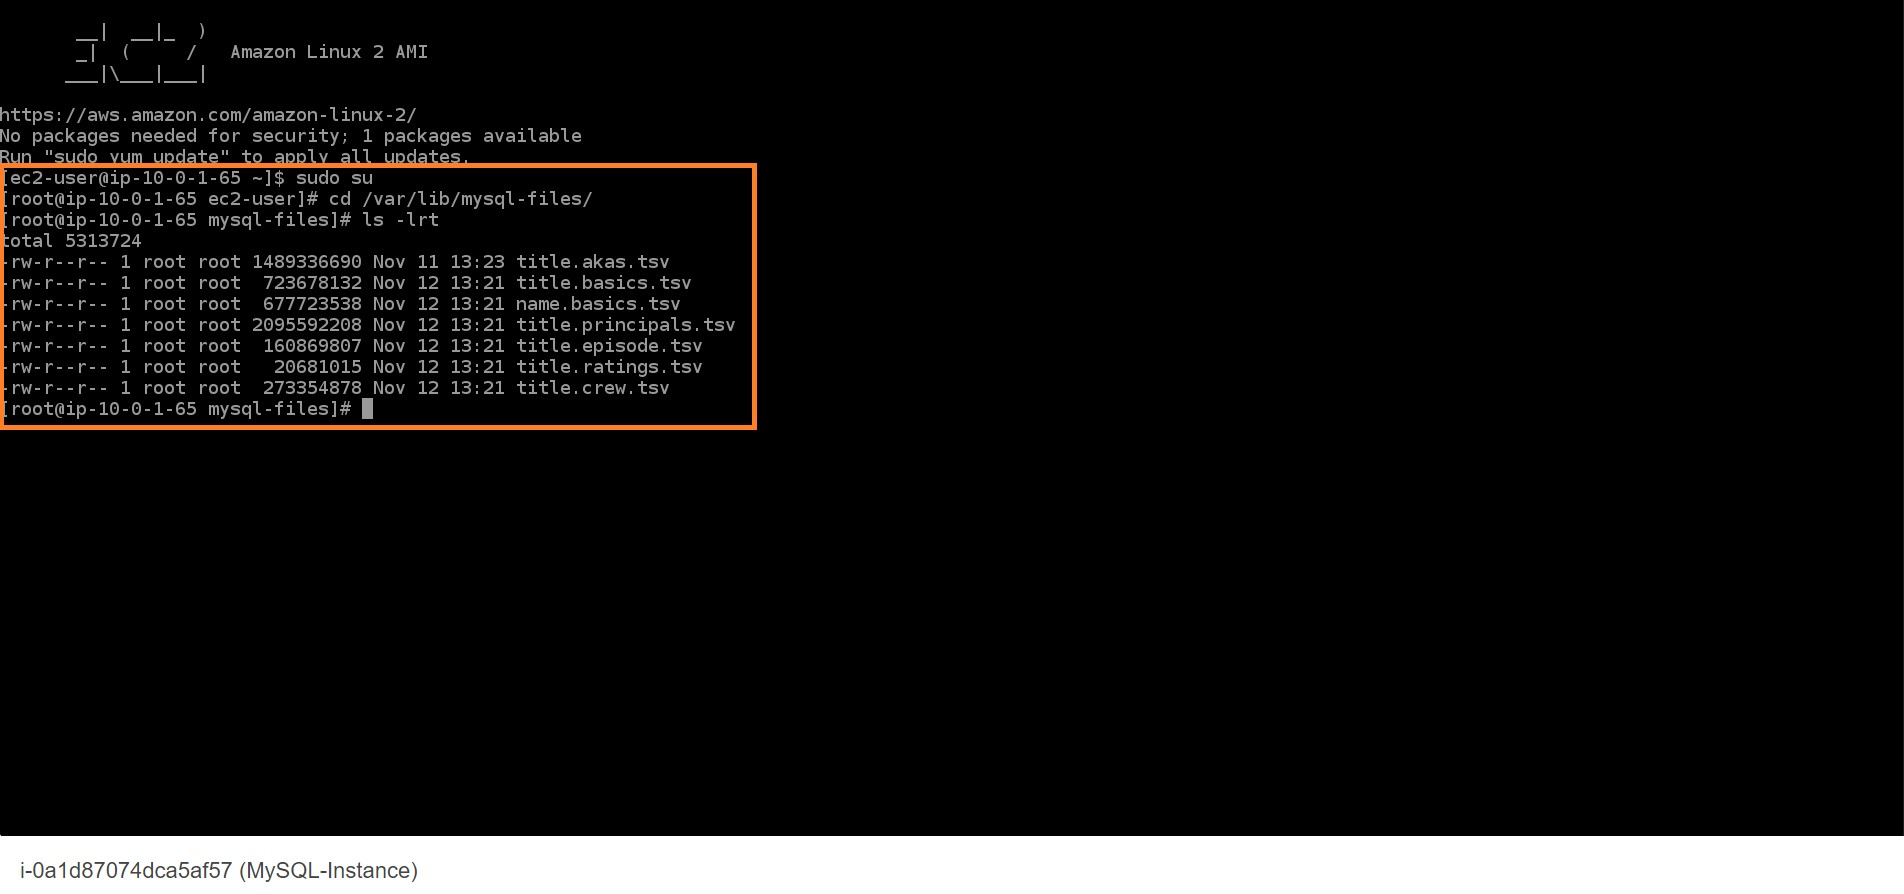
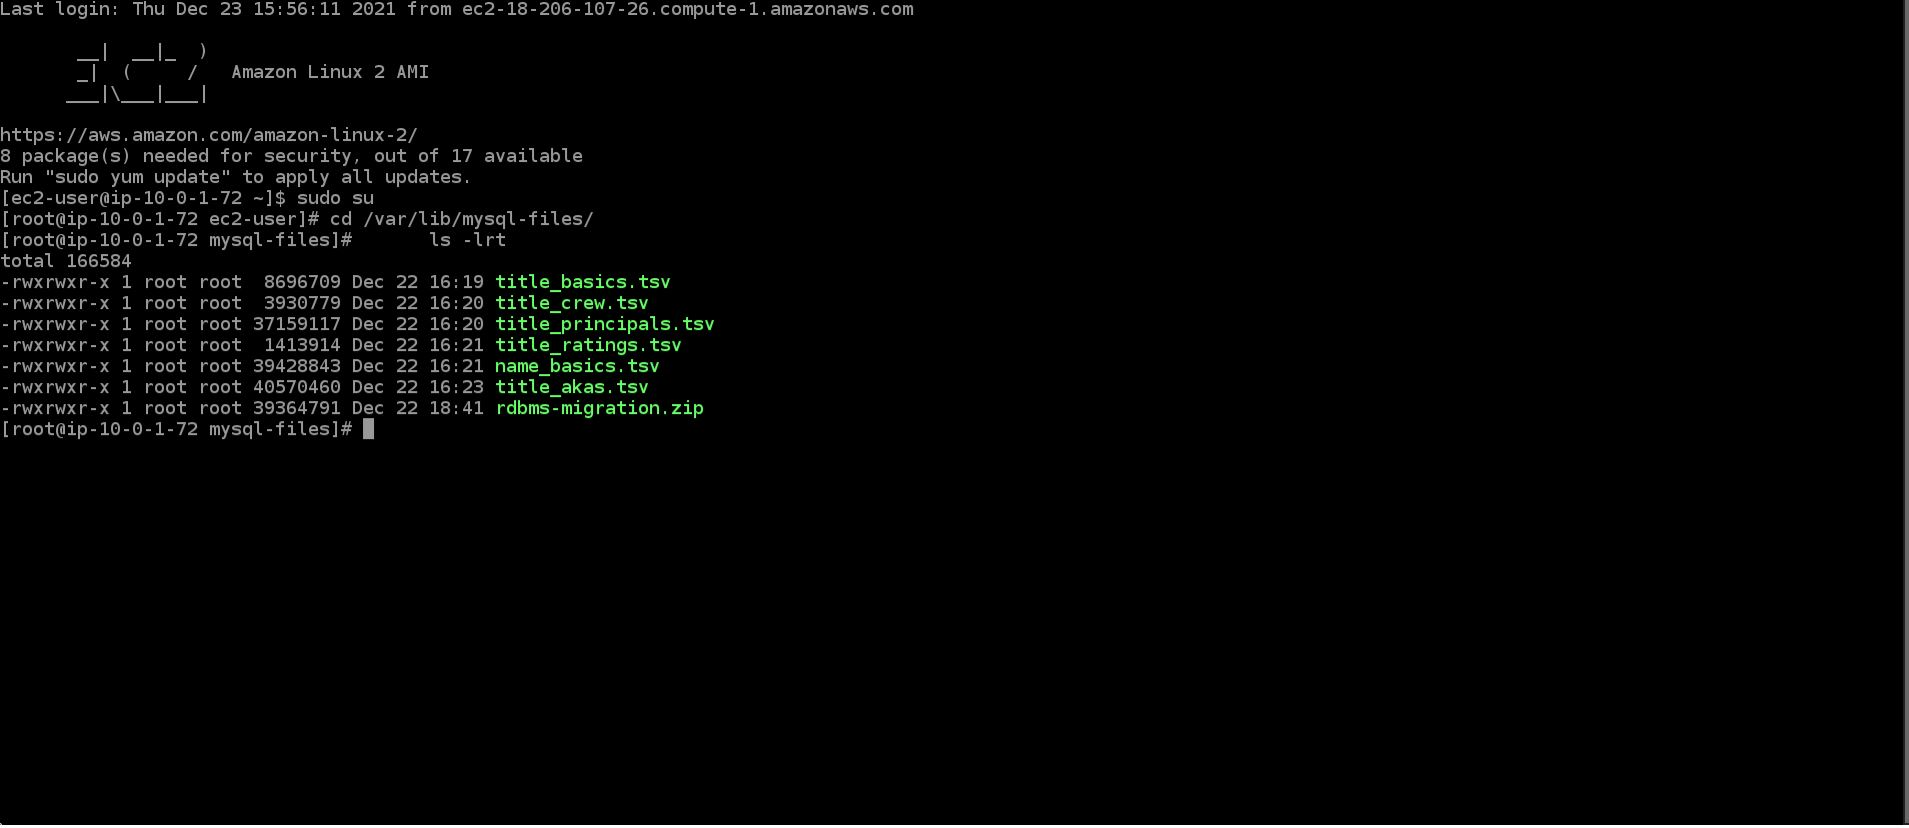
Update

Changed region(s): [[0.0, 0.0, 0.4958, 0.5435], [0.0, 0.0, 1.0, 0.9964]]

diff --git a/content/hands-on-labs/rdbms-migration/migration-chapter03.en.md b/content/hands-on-labs/rdbms-migration/migration-chapter03.en.md
@@ -1,13 +1,15 @@
 +++
-title = "Load Source Data"
-menuTitle = "Load Source Data"
+title = "Explore Source Data"
+menuTitle = "Explore Source Data"
 date = 2021-04-25T07:33:04-05:00
 weight = 30
-hidden = true
 +++
-Using CloudFormation template, you have launched EC2 Amazon Linux 2 instance with MySQL installed and running. The template has also created a new user based on the CloudFormation input parameter.
-The script has copied the public IMDB dataset into the file directory at deployed EC2 server.
-Learn more about [IMDB dataset](https://www.imdb.com/interfaces/).
+IMDb [(Internet Movie Database)](https://www.imdb.com/interfaces/) is one of the most recognized names for its comprehensive online database collection of movies, films, TV series and so on.
+The exercise is going to use subset of IMDb dataset. This workshop will utilize 6 IMDb dataset that are related to US based movies since year 2000. Each dataset is already loaded into 6 tables on MySQL imdb database deployed using previous CloudFormation template.
+The dataset has around 106K+ movies and crew information.
+
+Using CloudFormation template, you have launched EC2 Amazon Linux 2 instance with MySQL installed and running. The template has also created new imdb database, 6 tables (one for each IMDb dataset), loaded dataset into the tables and a new remote MySQL user based on the CloudFormation input parameter.
+The copy of the IMBb dataset (TSV files) is also copied into the local file directory at EC2 server. To explore dataset follow below instructions to login to EC2 server.
 
  1. Go to [EC2 console](https://console.aws.amazon.com/ec2/v2/home?region=us-east-1#Instances:instanceState=running)
  2. Select the MySQL-Instance and click Connect
@@ -24,7 +26,7 @@ Learn more about [IMDB dataset](https://www.imdb.com/interfaces/).
       cd /var/lib/mysql-files/
       ls -lrt
     ```
- 6. You can see all the 7 files copied from the IMDB dataset to the local EC2 directory
+ 6. You can see all the 6 files copied from the IMDB dataset to the local EC2 directory
     ![Final Deployment Architecture](/images/migration12.jpg)
  8. Feel free to explore the files.
  9. Go to AWS CloudFormation [Stacks](https://console.aws.amazon.com/cloudformation/home?region=us-east-1#/stacks?filteringStatus=active&filteringText=&viewNested=true&hideStacks=false) and click on the stack you created earlier. Go to the Parameters tab and copy the user name and password mentioned next to DbMasterUsername & DbMasterPassword
@@ -34,33 +36,22 @@ Learn more about [IMDB dataset](https://www.imdb.com/interfaces/).
   mysql -u DbMasterUsername -pDbMasterPassword
   ```
    ![Final Deployment Architecture](/images/migration14.jpg)
-11. Congratulations! you are now connected to a self-managed MySQL database on EC2. We will create a new imdb database and load datasets that are available as flat file on EC2 directory
+11. Congratulations! you are now connected to a self-managed MySQL source database on EC2. In next steps we will explore database and tables hosting IMDb datasets
   ```bash
-  CREATE DATABASE imdb;
-  USE imdb;
+  use imdbUSE imdb;
   ```
    ![Final Deployment Architecture](/images/migration15.jpg)
-12. Type below command to create source tables inside imdb Database
-   ```bash
-   CREATE TABLE title_akas (titleId VARCHAR(200), ordering VARCHAR(200),title VARCHAR(1000), region VARCHAR(1000), language VARCHAR(1000), types VARCHAR(1000),attributes VARCHAR(1000),isOriginalTitle VARCHAR(5),primary key (titleId, ordering));
-   CREATE TABLE imdb.title_basics (tconst  VARCHAR(200), titleType  VARCHAR(1000),primaryTitle  VARCHAR(1000), originalTitle  VARCHAR(1000), isAdult  VARCHAR(1000), startYear  VARCHAR(1000),endYear  VARCHAR(1000),runtimeMinutes  VARCHAR(1000),genres  VARCHAR(1000),primary key (tconst));
-   CREATE TABLE title_crew (tconst  VARCHAR(200), directors  VARCHAR(1000),writers  VARCHAR(1000),primary key (tconst));
-   CREATE TABLE title_episode (tconst  VARCHAR(200), parentTconst  VARCHAR(1000),seasonNumber  integer, episodeNumber  integer,primary key (tconst));
-   CREATE TABLE title_principals (tconst  VARCHAR(200), ordering  VARCHAR(200),nconst  VARCHAR(200), category  VARCHAR(1000), job  VARCHAR(1000), characters  VARCHAR(1000),primary key (tconst,ordering,nconst));
-   CREATE TABLE title_ratings (tconst  VARCHAR(200), averageRating float,numVotes  integer,primary key (tconst));
-   CREATE TABLE name_basics (nconst  VARCHAR(200), primaryName  VARCHAR(1000),birthYear  VARCHAR(1000), deathYear  VARCHAR(1000), primaryProfession  VARCHAR(1000), knownForTitles VARCHAR(1000),primary key (nconst));
-   ```
-13. Show all the tables created;
+12. Show all the tables created;
    ```bash
    show tables;
    ```
    ![Final Deployment Architecture](/images/migration16.jpg)
-14. Type below command to load data from flatfiles to MySQL imdb database. The process will take 20-30 minutes to load entire dataset.
-  ```bash
-   LOAD DATA INFILE '/var/lib/mysql-files/title_ratings.tsv' IGNORE INTO TABLE imdb.title_ratings FIELDS TERMINATED BY '\t';
-   LOAD DATA INFILE '/var/lib/mysql-files/title_basics.tsv'  IGNORE INTO TABLE imdb.title_basics FIELDS TERMINATED BY '\t';
-   LOAD DATA INFILE '/var/lib/mysql-files/title_crew.tsv' IGNORE INTO TABLE imdb.title_crew FIELDS TERMINATED BY '\t';
-   LOAD DATA INFILE '/var/lib/mysql-files/title_principals.tsv' IGNORE INTO TABLE imdb.title_principals FIELDS TERMINATED BY '\t';
-   LOAD DATA INFILE '/var/lib/mysql-files/name_basics.tsv' IGNORE INTO TABLE imdb.name_basics FIELDS TERMINATED BY '\t';
-   LOAD DATA INFILE '/var/lib/mysql-files/title_akas.tsv' IGNORE INTO  TABLE imdb.title_akas FIELDS TERMINATED BY '\t';
-   ```
+
+For illustration purpose, below logical diagram represents relationaship between various source tables hosting IMDb dataset.
+  1.  title_basics table has all movies published in US after year 2000. tconst is an alphanumeric key uniquely assigned to each movies.
+  2.  title_akas holds information related to various region and language that movie was originally published. This has 1:many relationshify with title_basics table.
+  3.  title_ratings holds information related to average movies rating and vote count. We can assume this has dynamic information that can change over time post movies are published.
+  4.  title_principals has information related to various crew member worked inside the movie. The table has 1:many relationship with title_basics table.
+  5.  title_crew has information related to writer and director for movies. The table is 1:1 related with title_basics table.
+  6.  name_basics has information related to all crew members and thier primary professions. Every actor has unique nconst value assigned.
+![Final Deployment Architecture](/images/migration31.jpg)

diff --git a/content/hands-on-labs/rdbms-migration/migration-chapter05.en.md b/content/hands-on-labs/rdbms-migration/migration-chapter05.en.md
@@ -119,58 +119,109 @@ To Migrate Denormalized View
           ]
       }
   ```
-  To Migrate Ratings table (Ensure to Change Target table preparation mode = Do nothing to preserve data from first historical load)
-    ```json
-
-    {
-      "rules": [
-          {
-              "rule-type": "selection",
-              "rule-id": "1",
-              "rule-name": "1",
-              "object-locator": {
-                  "schema-name": "imdb",
-                  "table-name": "title_ratings",
-                  "table-type": "table"
-              },
-              "rule-action": "include"
-          },
-          {
-              "rule-type": "object-mapping",
-              "rule-id": "2",
-              "rule-name": "2",
-              "rule-action": "map-record-to-record",
-              "object-locator": {
-                  "schema-name": "imdb",
-                  "table-name": "title_ratings",
-                  "table-type": "table"
-              },
-              "target-table-name": "dynamo_migration",
-              "mapping-parameters": {
-                  "partition-key-name": "tconst",
-                  "sort-key-name": "tconst_orderning",
-                  "exclude-columns": [],
-                  "attribute-mappings": [
-                      {
-                          "target-attribute-name": "tconst",
-                          "attribute-type": "scalar",
-                          "attribute-sub-type": "string",
-                          "value": "${tconst}"
-                      },
-                      {
-                          "target-attribute-name": "tconst_orderning",
-                          "attribute-type": "scalar",
-                          "attribute-sub-type": "string",
-                          "value": "RATINGS"
-                      }
-                  ]
-              }
-          }
-        ]
-      }
-    ```
 ![Final Deployment Architecture](/images/migration25.jpg)
 ![Final Deployment Architecture](/images/migration26.jpg)
 The replication job for historical migration will start moving data from MySQL dynamo_migration denormalized view to DynamoDB table in a few minutes. The job will migration 2.5 million records and normally takes 4-5 Hrs.
 You can track the status of data loading under the Table statistics of the migration task. Once loading is in progress, feel free to move to the next section of the exercise.
 ![Final Deployment Architecture](/images/migration27.jpg)
+
+To Migrate Ratings table (Ensure to Change Target table preparation mode = Do nothing to preserve data from first historical load)
+  ```json
+
+  {
+    "rules": [
+        {
+            "rule-type": "selection",
+            "rule-id": "1",
+            "rule-name": "1",
+            "object-locator": {
+                "schema-name": "imdb",
+                "table-name": "title_ratings",
+                "table-type": "table"
+            },
+            "rule-action": "include"
+        },
+        {
+            "rule-type": "object-mapping",
+            "rule-id": "2",
+            "rule-name": "2",
+            "rule-action": "map-record-to-record",
+            "object-locator": {
+                "schema-name": "imdb",
+                "table-name": "title_ratings",
+                "table-type": "table"
+            },
+            "target-table-name": "dynamo_migration",
+            "mapping-parameters": {
+                "partition-key-name": "tconst",
+                "sort-key-name": "tconst_orderning",
+                "exclude-columns": [],
+                "attribute-mappings": [
+                    {
+                        "target-attribute-name": "tconst",
+                        "attribute-type": "scalar",
+                        "attribute-sub-type": "string",
+                        "value": "${tconst}"
+                    },
+                    {
+                        "target-attribute-name": "tconst_orderning",
+                        "attribute-type": "scalar",
+                        "attribute-sub-type": "string",
+                        "value": "RATINGS"
+                    }
+                ]
+            }
+        }
+      ]
+    }
+  ```
+To Migrate title akas table (Ensure to Change Target table preparation mode = Do nothing to preserve data from first historical load).
+
+```json
+  {
+    "rules": [
+        {
+            "rule-type": "selection",
+            "rule-id": "1",
+            "rule-name": "1",
+            "object-locator": {
+                "schema-name": "imdb",
+                "table-name": "title_akas",
+                "table-type": "table"
+            },
+            "rule-action": "include"
+        },
+        {
+            "rule-type": "object-mapping",
+            "rule-id": "2",
+            "rule-name": "2",
+            "rule-action": "map-record-to-record",
+            "object-locator": {
+                "schema-name": "imdb",
+                "table-name": "title_akas",
+                "table-type": "table"
+            },
+            "target-table-name": "dynamo_migration",
+            "mapping-parameters": {
+                "partition-key-name": "tconst",
+                "sort-key-name": "tconst_orderning",
+                "exclude-columns": [],
+                "attribute-mappings": [
+                    {
+                        "target-attribute-name": "tconst",
+                        "attribute-type": "scalar",
+                        "attribute-sub-type": "string",
+                        "value": "${titleId}"
+                    },
+                    {
+                        "target-attribute-name": "tconst_orderning",
+                        "attribute-type": "scalar",
+                        "attribute-sub-type": "string",
+                        "value": "LANGUAGE|${ordering} "
+                    }
+                ]
+            }
+        }
+    ]
+  }
+```

diff --git a/content/hands-on-labs/rdbms-migration/_index.en.md b/content/hands-on-labs/rdbms-migration/_index.en.md
@@ -18,6 +18,8 @@ Amazon DynamoDB helps IT to rethink the data model in a key-value format. Data i
 Amazon DynamoDB offers a fully managed, serverless datastore for information stored in key-value format with single-digit millisecond latency at scale.
 
 This exercise will briefly discuss the technique to migrate relational datasets from MySQL to Amazon DynamoDB. The relational data from the MySQL database is scatterned across multiple tables. We will denormalized technique to create a 360 logical view of the buisness entity before facilitating migration.
-The information stored in the tables will be denormalized based on their primary-key/foriegn key relationship before migrating to Amazon DynamoDB. Data Denormalization is a common practice used in NoSQL data modeling to reduce the overhead of joins during Query operation.
+Also, it is important to identify degree of denormalization in order to better serve your query and transaction.
+The excercise will extend the technique of creating collection based on same primary key to reduce I/O and improve cost and performance.
+Data Denormalization and Item collections are common practice used in Amazon DynamoDB data modeling to reduce the overhead of joins during Query operation.
 
 ![Final Deployment Architecture](/images/denormalization.png)

diff --git a/content/hands-on-labs/rdbms-migration/migration-chapter04.en.md b/content/hands-on-labs/rdbms-migration/migration-chapter04.en.md
@@ -15,6 +15,8 @@ In this exercise, we will focus on designing a denormalized MySQL view that will
 Exploring the IMDB dataset, you may notice tconst and nconst fields that are uniquely assigned to each movie and crew member respectively. We will use this primary key across all 7 tables to create joins
 and pull a subset of columns inside the target view. Also, to demonstrate row-level filtering the view just filters all the movies published in the English language.
 
+![Final Deployment Architecture](/images/migration32.jpg)
+
 Copy below code and paste into mysql command line
 ```bash
 CREATE VIEW imdb.dynamo_migration AS\
